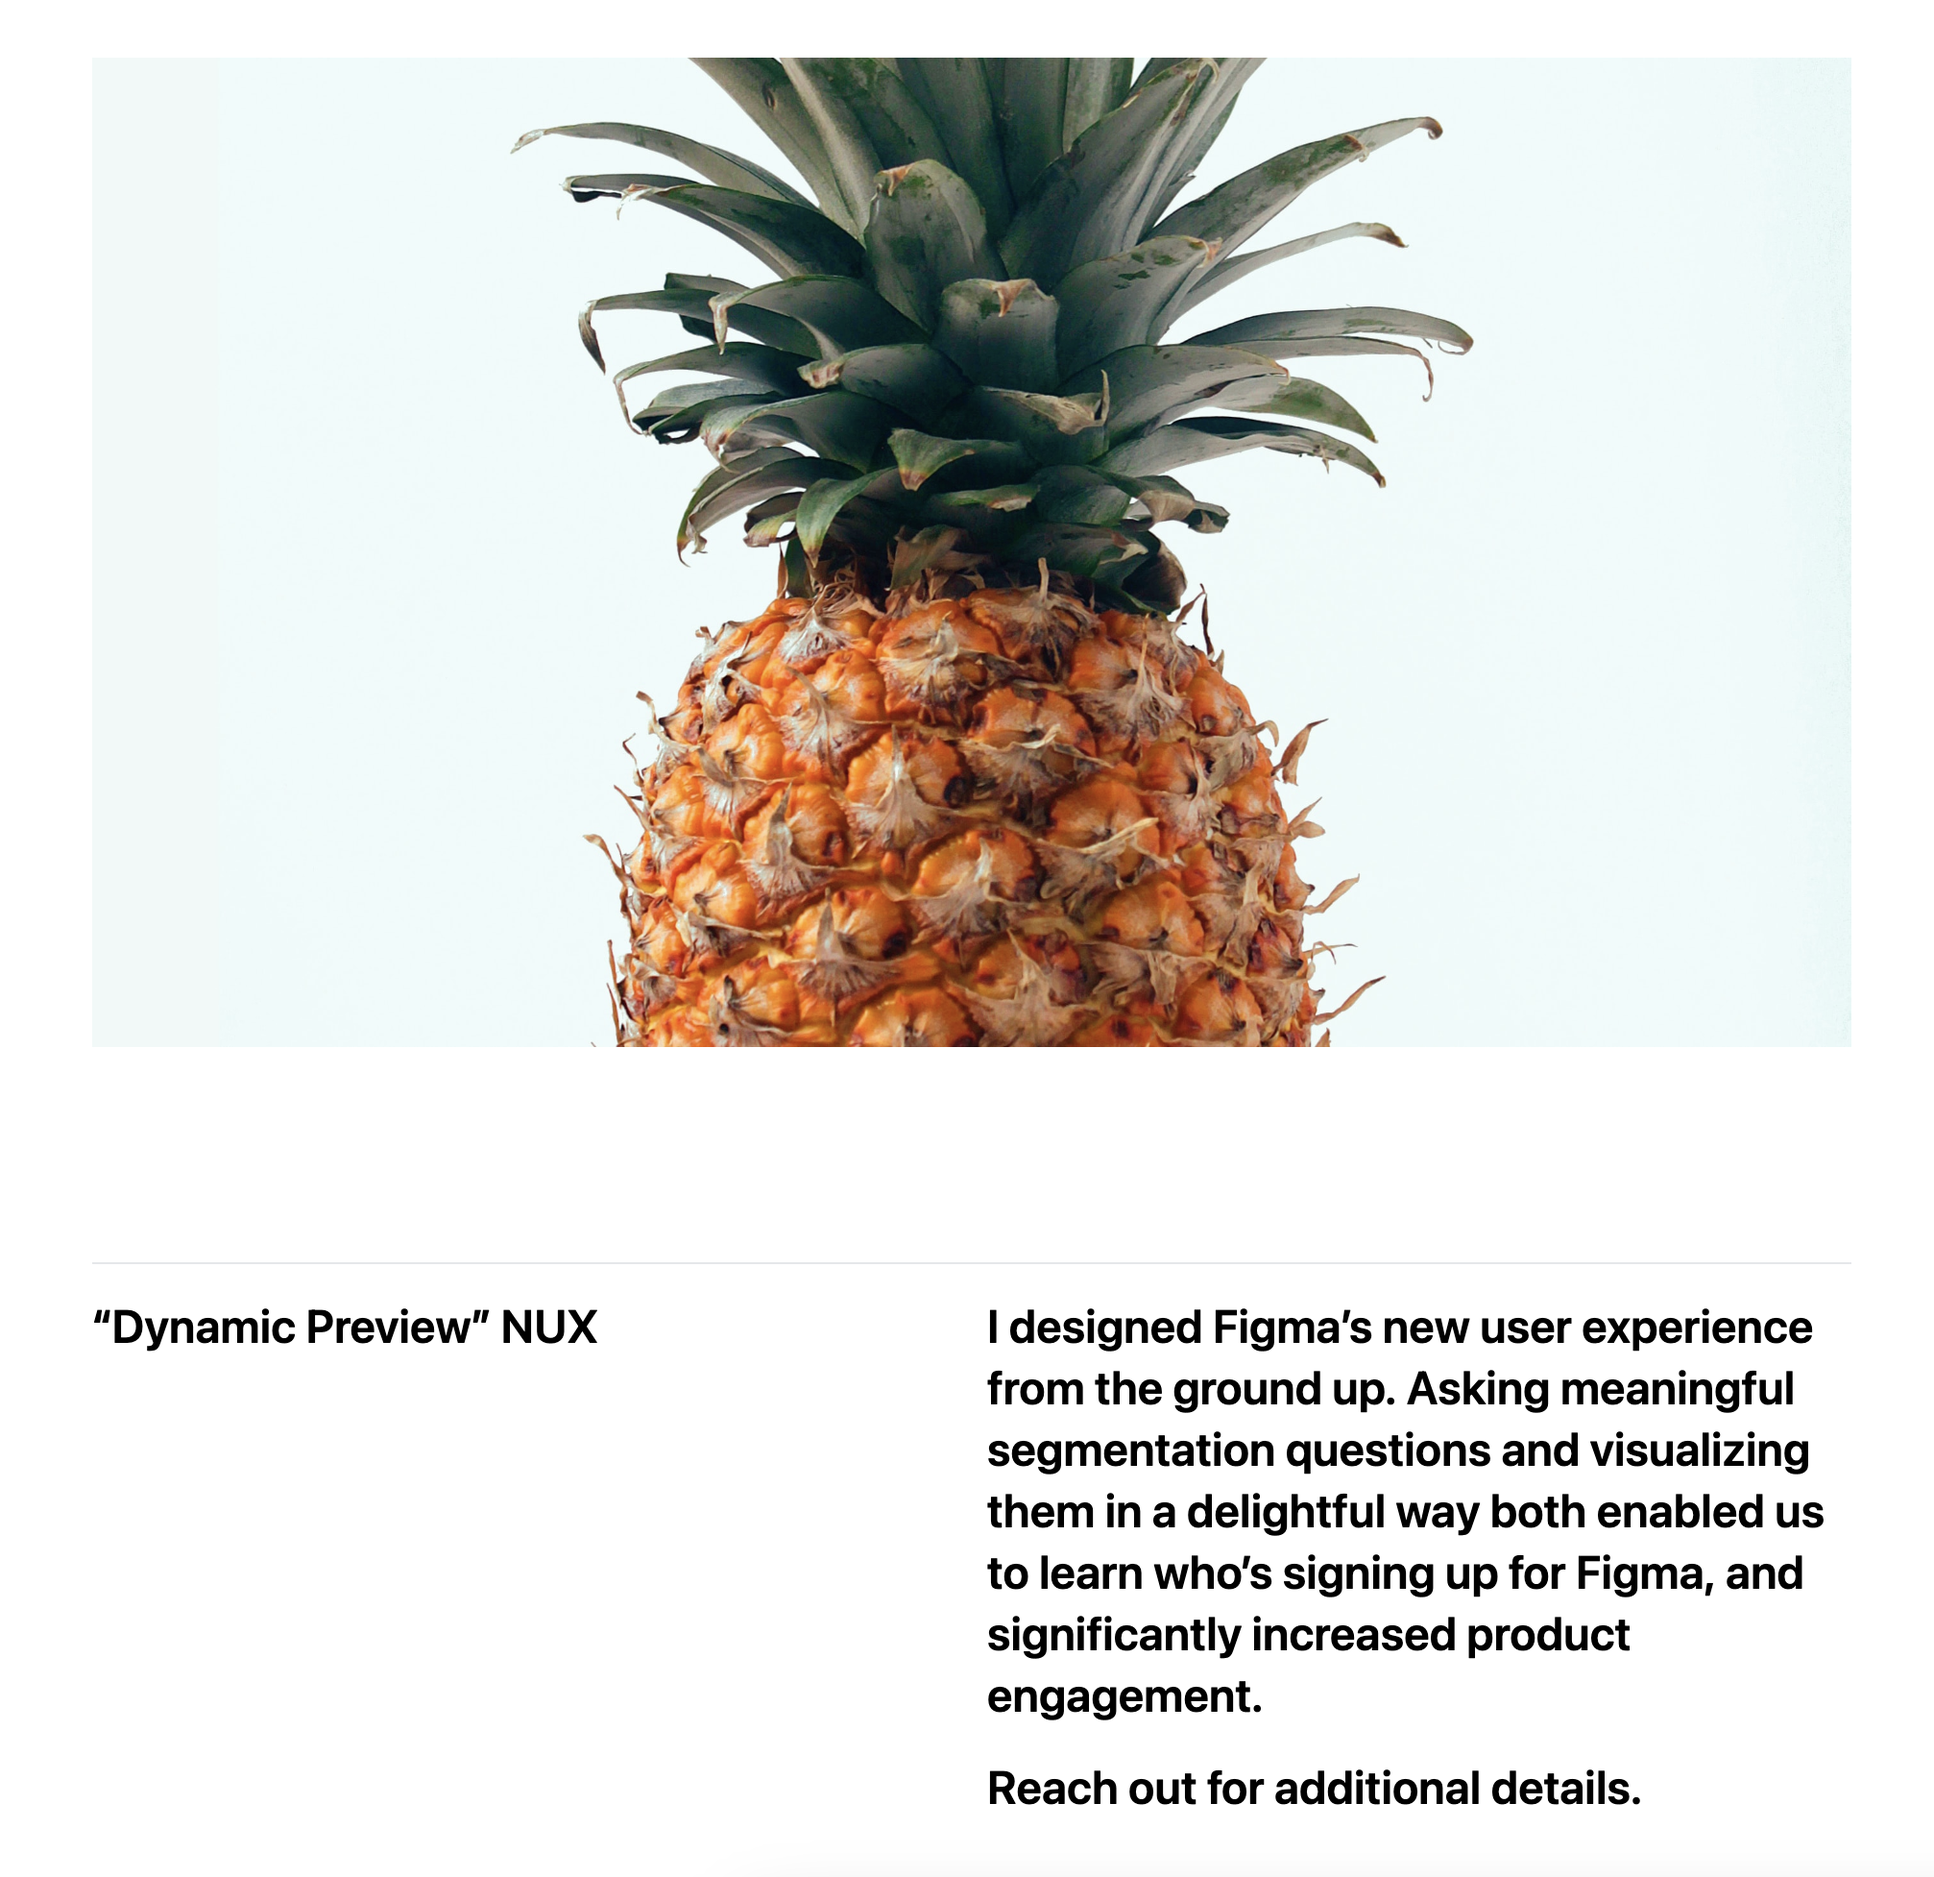
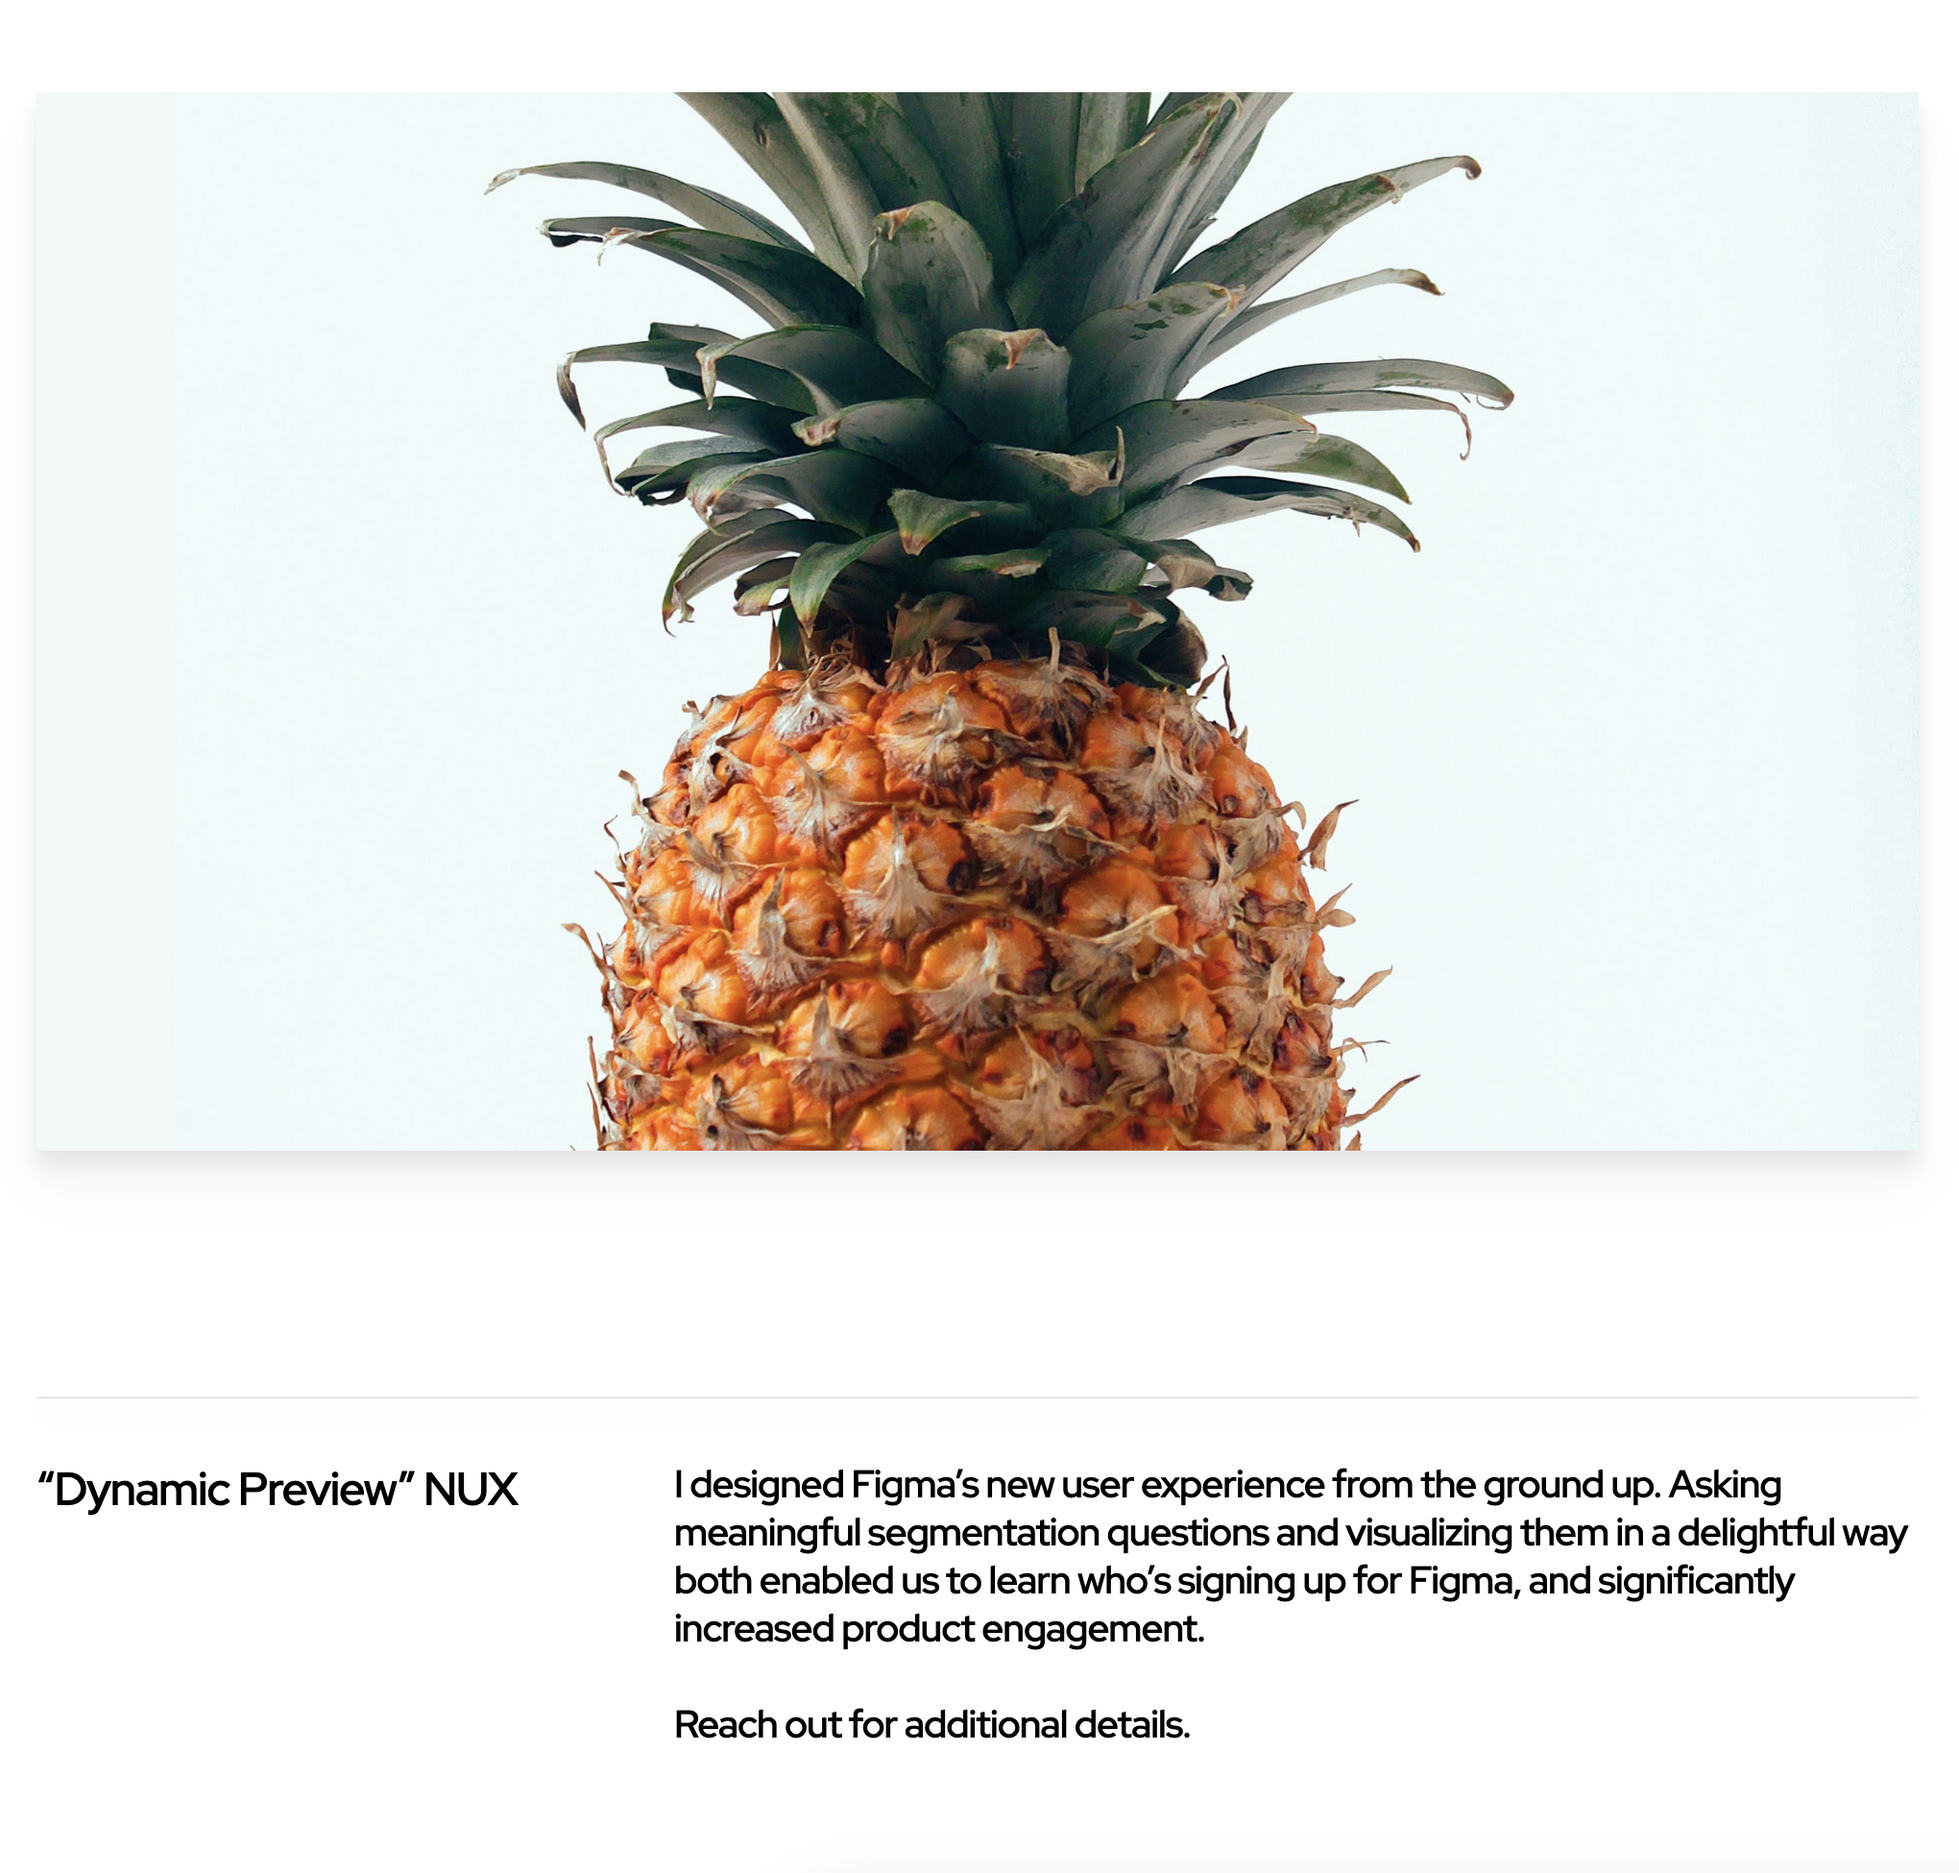
feat: Add Gallery Page

diff --git a/src/slices/Article/index.tsx b/src/slices/Article/index.tsx
@@ -22,7 +22,7 @@ const Article = ({ slice }: ArticleProps): JSX.Element => {
           <div className=" md:grid md:grid-cols-6 md:gap-4 space-y-4 mb-4">
             <PrismicNextImage
               field={slice.primary.image}
-              className="col-start-1 col-end-7 pb-32 border-b dark:border-[#454545]"
+              className="col-start-1 col-end-7 pb-32 border-b dark:border-[#454545] drop-shadow-xl"
             />
             <PrismicRichText
               field={slice.primary.heading_title}
@@ -57,7 +57,7 @@ const Article = ({ slice }: ArticleProps): JSX.Element => {
           <div className="md:grid md:grid-cols-6 md:gap-x-4 md:gap-y-32 space-y-10 md:space-y-0">
             <PrismicNextImage
               field={slice.primary.image}
-              className="col-start-1 col-end-7"
+              className="col-start-1 col-end-7 drop-shadow-xl"
             />
 
             <PrismicRichText
@@ -72,12 +72,12 @@ const Article = ({ slice }: ArticleProps): JSX.Element => {
             />
             <PrismicNextImage
               field={slice.primary.image_small_right}
-              className="col-start-3 col-end-7 col-span-2 object-cover min-h-full w-full"
+              className="col-start-3 col-end-7 col-span-2 object-cover min-h-full w-full drop-shadow-xl"
             />
 
             <PrismicNextImage
               field={slice.primary.image_small_left}
-              className="col-start-1 col-end-5 col-span-2 object-cover min-h-full w-full"
+              className="col-start-1 col-end-5 col-span-2 object-cover min-h-full w-full drop-shadow-xl"
             />
             <PrismicRichText
               field={slice.primary.body_left}
@@ -100,15 +100,15 @@ const Article = ({ slice }: ArticleProps): JSX.Element => {
           <div className="md:grid md:grid-cols-6 md:gap-4 space-y-10 md:space-y-0">
             <PrismicNextImage
               field={slice.primary.image}
-              className="col-start-1 col-end-7"
+              className="col-start-1 col-end-7 drop-shadow-xl"
             />
             <PrismicNextImage
               field={slice.primary.image_small_left}
-              className="col-start-1 col-end-4 col-span-2 object-cover min-h-full w-full"
+              className="col-start-1 col-end-4 col-span-2 object-cover min-h-full w-full drop-shadow-xl"
             />
             <PrismicNextImage
               field={slice.primary.image_small_right}
-              className="col-start-4 col-end-7 col-span-2 object-cover min-h-full w-full"
+              className="col-start-4 col-end-7 col-span-2 object-cover min-h-full w-full drop-shadow-xl"
             />
           </div>
         </Bounded>

diff --git a/prismicio-types.d.ts b/prismicio-types.d.ts
@@ -80,7 +80,10 @@ export type HomepageDocument<Lang extends string = string> =
     Lang
   >;
 
-type PageDocumentDataSlicesSlice = ArticleSlice;
+type PageDocumentDataSlicesSlice =
+  | GallerySlice
+  | ArticlePreviewSlice
+  | ArticleSlice;
 
 /**
  * Content for Page documents
@@ -521,6 +524,51 @@ export type ArticlePreviewSlice = prismic.SharedSlice<
   ArticlePreviewSliceVariation
 >;
 
+/**
+ * Primary content in *Gallery → Items*
+ */
+export interface GallerySliceDefaultItem {
+  /**
+   * Image field in *Gallery → Items*
+   *
+   * - **Field Type**: Image
+   * - **Placeholder**: *None*
+   * - **API ID Path**: gallery.items[].image
+   * - **Documentation**: https://prismic.io/docs/field#image
+   */
+  image: prismic.ImageField<never>;
+}
+
+/**
+ * Default variation for Gallery Slice
+ *
+ * - **API ID**: `default`
+ * - **Description**: Default
+ * - **Documentation**: https://prismic.io/docs/slice
+ */
+export type GallerySliceDefault = prismic.SharedSliceVariation<
+  "default",
+  Record<string, never>,
+  Simplify<GallerySliceDefaultItem>
+>;
+
+/**
+ * Slice variation for *Gallery*
+ */
+type GallerySliceVariation = GallerySliceDefault;
+
+/**
+ * Gallery Shared Slice
+ *
+ * - **API ID**: `gallery`
+ * - **Description**: Gallery
+ * - **Documentation**: https://prismic.io/docs/slice
+ */
+export type GallerySlice = prismic.SharedSlice<
+  "gallery",
+  GallerySliceVariation
+>;
+
 declare module "@prismicio/client" {
   interface CreateClient {
     (
@@ -554,6 +602,10 @@ declare module "@prismicio/client" {
       ArticlePreviewSliceDefaultPrimary,
       ArticlePreviewSliceVariation,
       ArticlePreviewSliceDefault,
+      GallerySlice,
+      GallerySliceDefaultItem,
+      GallerySliceVariation,
+      GallerySliceDefault,
     };
   }
 }

diff --git a/src/slices/Gallery/index.tsx b/src/slices/Gallery/index.tsx
@@ -1,0 +1,35 @@
+"use client";
+
+import { Content } from "@prismicio/client";
+import { SliceComponentProps } from "@prismicio/react";
+
+import Bounded from "@/components/Bounded";
+import { PrismicNextImage } from "@prismicio/next";
+import Masonry, { ResponsiveMasonry } from "react-responsive-masonry";
+
+/**
+ * Props for `Gallery`.
+ */
+export type GalleryProps = SliceComponentProps<Content.GallerySlice>;
+
+/**
+ * Component for "Gallery" Slices.
+ */
+const Gallery = ({ slice }: GalleryProps): JSX.Element => {
+  return (
+    <Bounded
+      data-slice-type={slice.slice_type}
+      data-slice-variation={slice.variation}
+    >
+      <ResponsiveMasonry>
+        <Masonry gutter={"1rem"}>
+          {slice.items.map((item) => {
+            return <PrismicNextImage key={item.image.url} field={item.image} />;
+          })}
+        </Masonry>
+      </ResponsiveMasonry>
+    </Bounded>
+  );
+};
+
+export default Gallery;

diff --git a/src/components/Bounded.tsx b/src/components/Bounded.tsx
@@ -15,12 +15,13 @@ export default function Bounded({
   return (
     <Comp
       className={clsx(
-        "px-4 py-10 md:py-14 md:px-6 lg:py-16 bg-white dark:bg-[#141414] dark:text-white",
+        "px-4 py-10 md:py-14 md:px-6 lg:py-16 bg-white",
+        // dark:bg-[#141414] dark:text-white
         className
       )}
       {...restProps}
     >
-      <div className="mx-auto w-full max-w-6xl">{children}</div>
+      <div className="mx-auto w-full max-w-7xl">{children}</div>
     </Comp>
   );
 }

diff --git a/src/components/Header.tsx b/src/components/Header.tsx
@@ -11,7 +11,7 @@ export default async function Header() {
   return (
     <Bounded
       as="header"
-      className="py-4 md:py-6 lg:py-8 sm:pb-0 md:pb-0 lg:pb-0 sticky top-0"
+      className="py-4 md:py-6 lg:py-8 sm:pb-0 md:pb-0 lg:pb-0 sticky top-0 z-50"
     >
       <div className="flex gap-4 items-center justify-between flex-row border-b dark:border-[#454545] pb-4 sm:text-2xl text-lg font-semibold font-display">
         <Link href="/">{settings.data.site_title}</Link>

diff --git a/src/slices/ArticlePreview/index.tsx b/src/slices/ArticlePreview/index.tsx
@@ -22,7 +22,7 @@ const ArticlePreview = ({ slice }: ArticlePreviewProps): JSX.Element => {
         <div className="grid grid-cols-6 gap-4">
           <PrismicNextImage
             field={slice.primary.image}
-            className="col-start-1 col-end-7"
+            className="col-start-1 col-end-7 drop-shadow-xl"
           />
           <PrismicRichText
             field={slice.primary.heading}

diff --git a/src/slices/index.ts b/src/slices/index.ts
@@ -5,4 +5,5 @@ import dynamic from "next/dynamic";
 export const components = {
   article: dynamic(() => import("./Article")),
   article_preview: dynamic(() => import("./ArticlePreview")),
+  gallery: dynamic(() => import("./Gallery")),
 };
